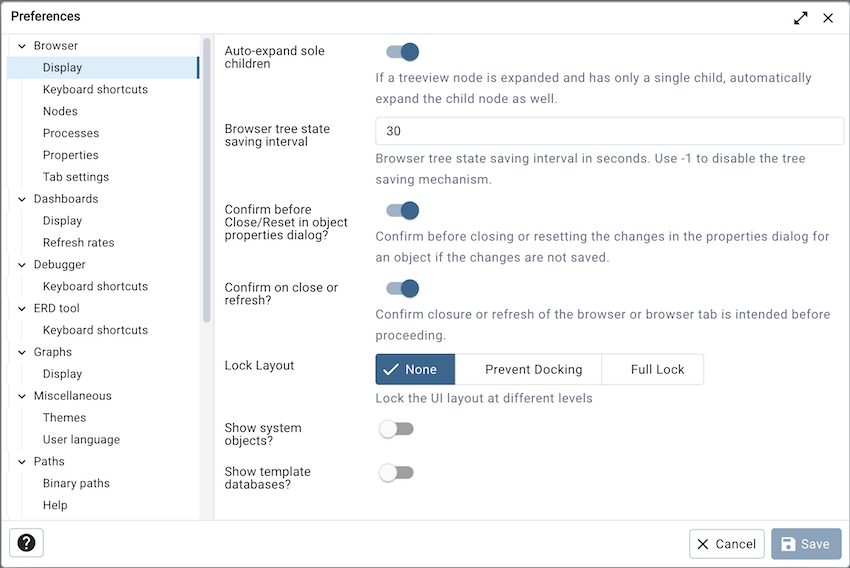
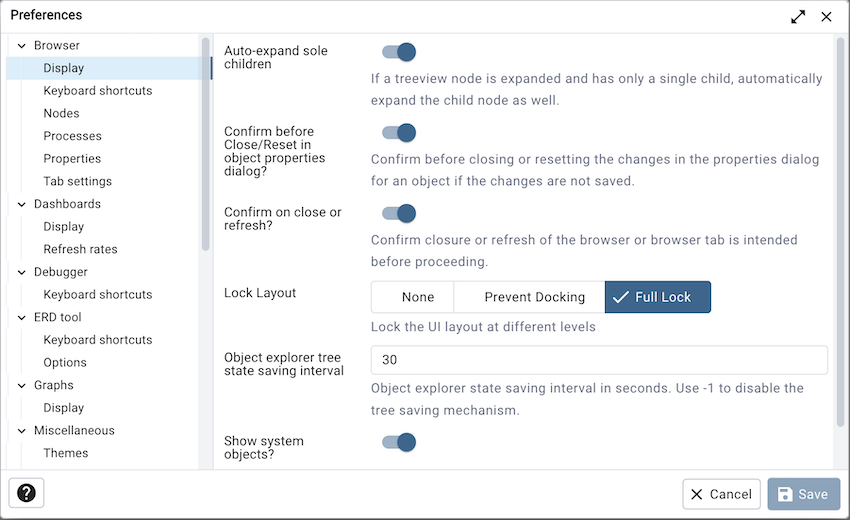
Nomenclature changes:
1. Rename "Properties..." context menu option of object to "Edit Object...".
2. Rename "Browser" tree to "Object Explorer". #4734

diff --git a/web/pgadmin/tools/backup/static/js/backup.js b/web/pgadmin/tools/backup/static/js/backup.js
@@ -65,7 +65,7 @@ define([
         icon: 'fa fa-save',
         enable: menuUtils.menuEnabledServer,
         data: {
-          data_disabled: gettext('Please select any server from the browser tree to take Backup of global objects.'),
+          data_disabled: gettext('Please select any server from the object explorer to take Backup of global objects.'),
         },
       }, {
         name: 'backup_server',
@@ -77,7 +77,7 @@ define([
         icon: 'fa fa-save',
         enable: menuUtils.menuEnabledServer,
         data: {
-          data_disabled: gettext('Please select any server from the browser tree to take Server Backup.'),
+          data_disabled: gettext('Please select any server from the object explorer to take Server Backup.'),
         },
       }, {
         name: 'backup_global_ctx',
@@ -90,7 +90,7 @@ define([
         icon: 'fa fa-save',
         enable: menuUtils.menuEnabledServer,
         data: {
-          data_disabled: gettext('Please select any database or schema or table from the browser tree to take Backup.'),
+          data_disabled: gettext('Please select any database or schema or table from the object explorer to take Backup.'),
         },
       }, {
         name: 'backup_server_ctx',
@@ -103,7 +103,7 @@ define([
         icon: 'fa fa-save',
         enable: menuUtils.menuEnabledServer,
         data: {
-          data_disabled: gettext('Please select any server from the browser tree to take Server Backup.'),
+          data_disabled: gettext('Please select any server from the object explorer to take Server Backup.'),
         },
       }, {
         name: 'backup_object',
@@ -117,7 +117,7 @@ define([
           null, pgBrowser.tree, menuUtils.backupSupportedNodes
         ),
         data: {
-          data_disabled: gettext('Please select any database or schema or table from the browser tree to take Backup.'),
+          data_disabled: gettext('Please select any database or schema or table from the object explorer to take Backup.'),
         },
       }];
 

diff --git a/web/pgadmin/preferences/static/js/components/PreferencesComponent.jsx b/web/pgadmin/preferences/static/js/components/PreferencesComponent.jsx
@@ -338,7 +338,7 @@ export default function PreferencesComponent({ ...props }) {
   function addNote(node, subNode, nodeData, preferencesData, note = '') {
     // Check and add the note for the element.
     if (subNode.label == gettext('Nodes') && node.label == gettext('Browser')) {
-      note = [gettext('This settings is to Show/Hide nodes in the browser tree.')].join('');
+      note = [gettext('This settings is to Show/Hide nodes in the object explorer.')].join('');
     } if(nodeData.name == 'keyboard_shortcuts') {
       note = gettext('The Accesskey here is %s.', getBrowserAccesskey().join(' + '));
     } else {
@@ -561,8 +561,8 @@ export default function PreferencesComponent({ ...props }) {
 
         if (pref.name == 'hide_shared_server') {
           Notify.confirm(
-            gettext('Browser tree refresh required'),
-            gettext('A browser tree refresh is required. Do you wish to refresh the tree?'),
+            gettext('Object explorer tree refresh required'),
+            gettext('The object explorer tree refresh is required. Do you wish to refresh the tree?'),
             function () {
               pgAdmin.Browser.tree.destroy({
                 success: function () {

diff --git a/web/pgadmin/browser/server_groups/servers/static/js/server.js b/web/pgadmin/browser/server_groups/servers/static/js/server.js
@@ -79,14 +79,14 @@ define('pgadmin.node.server', [
           applies: ['tools', 'context'], callback: 'reload_configuration',
           category: 'reload', priority: 10, label: gettext('Reload Configuration'),
           enable : 'enable_reload_config',data: {
-            data_disabled: gettext('Please select a server from the browser tree to reload the configuration files.'),
+            data_disabled: gettext('Please select a server from the object explorer to reload the configuration files.'),
           },
         },{
           name: 'restore_point', node: 'server', module: this,
           applies: ['tools', 'context'], callback: 'restore_point',
           category: 'restore', priority: 7, label: gettext('Add Named Restore Point...'),
           enable : 'is_applicable',data: {
-            data_disabled: gettext('Please select any server from the browser tree to Add Named Restore Point.'),
+            data_disabled: gettext('Please select any server from the object explorer to Add Named Restore Point.'),
           },
         },{
           name: 'change_password', node: 'server', module: this,

diff --git a/web/pgadmin/tools/import_export_servers/static/js/ImportExportServers.jsx b/web/pgadmin/tools/import_export_servers/static/js/ImportExportServers.jsx
@@ -152,9 +152,9 @@ export default function ImportExportServers({onClose}) {
       } else if (selectionFormData.imp_exp == 'i') {
         setSummaryText(gettext('The following servers will be imported. Click the Finish button to complete the import process.'));
         if (selectionFormData.replace_servers) {
-          setNoteText(gettext('All existing server groups and servers will be removed before the servers above are imported. On a successful import process, the browser tree will be refreshed.'));
+          setNoteText(gettext('All existing server groups and servers will be removed before the servers above are imported. On a successful import process, the object explorer will be refreshed.'));
         } else {
-          setNoteText(gettext('On a successful import process, the browser tree will be refreshed.'));
+          setNoteText(gettext('On a successful import process, the object explorer will be refreshed.'));
         }
       }
     }

diff --git a/web/pgadmin/browser/server_groups/servers/databases/static/js/database.ui.js b/web/pgadmin/browser/server_groups/servers/databases/static/js/database.ui.js
@@ -143,7 +143,7 @@ export default class DatabaseSchema extends BaseUISchema {
         id: 'is_template', label: gettext('Template?'),
         type: 'switch', group: gettext('Definition'),
         mode: ['properties', 'edit', 'create'], readonly: function(state) {return (state.is_sys_obj); },
-        helpMessage: gettext('Note: When the preferences setting \'show template databases\' is set to false, then template databases won\'t be displayed in the browser tree.'),
+        helpMessage: gettext('Note: When the preferences setting \'show template databases\' is set to false, then template databases won\'t be displayed in the object explorer.'),
         helpMessageMode: ['edit', 'create'],
       },{
         id: 'datallowconn', label: gettext('Allow connections?'),

diff --git a/web/pgadmin/tools/user_management/static/js/UserManagementDialog.jsx b/web/pgadmin/tools/user_management/static/js/UserManagementDialog.jsx
@@ -324,8 +324,8 @@ function UserManagementDialog({onClose}) {
         if (changeData['refreshBrowserTree']) {
           // Confirmation dialog to refresh the browser tree.
           Notify.confirm(
-            gettext('Browser tree refresh required'),
-            gettext('The ownership of the shared server was changed or the shared server was deleted, so a browser tree refresh is required. Do you wish to refresh the tree?'),
+            gettext('Object explorer tree refresh required'),
+            gettext('The ownership of the shared server was changed or the shared server was deleted, so the object explorer tree refresh is required. Do you wish to refresh the tree?'),
             function () {
               pgAdmin.Browser.tree.destroy();
             },

diff --git a/web/pgadmin/tools/maintenance/static/js/maintenance.js b/web/pgadmin/tools/maintenance/static/js/maintenance.js
@@ -50,7 +50,7 @@ define([
           null, pgBrowser.tree, menuUtils.maintenanceSupportedNodes
         ),
         data: {
-          data_disabled: gettext('Please select any database from the browser tree to do Maintenance.'),
+          data_disabled: gettext('Please select any database from the object explorer to do Maintenance.'),
         },
       }];
 
@@ -68,7 +68,7 @@ define([
             null, pgBrowser.tree, menuUtils.maintenanceSupportedNodes
           ),
           data: {
-            data_disabled: gettext('Please select any database from the browser tree to do Maintenance.'),
+            data_disabled: gettext('Please select any database from the object explorer to do Maintenance.'),
           },
         });
       }

diff --git a/web/pgadmin/static/js/SchemaView/index.jsx b/web/pgadmin/static/js/SchemaView/index.jsx
@@ -997,7 +997,7 @@ function SchemaPropertiesView({
           data-test="help" onClick={()=>props.onHelp(true, false)} icon={<InfoIcon />} disabled={props.disableSqlHelp}
           title="SQL help for this object type." className={classes.buttonMargin} />
         <PgIconButton data-test="edit"
-          onClick={props.onEdit} icon={<EditIcon />} title="Edit the object" />
+          onClick={props.onEdit} icon={<EditIcon />} title={gettext('Edit object...')} />
       </Box>
       <Box className={clsx(classes.form, classes.formProperties)}>
         <Box>

diff --git a/web/pgadmin/tools/grant_wizard/static/js/grant_wizard.js b/web/pgadmin/tools/grant_wizard/static/js/grant_wizard.js
@@ -48,7 +48,7 @@ define([
           null, pgBrowser.tree, menuUtils.supportedNodes
         ),
         data: {
-          data_disabled: gettext('Please select any database, schema or schema objects from the browser tree to access Grant Wizard Tool.'),
+          data_disabled: gettext('Please select any database, schema or schema objects from the object explorer to access Grant Wizard Tool.'),
         },
       }];
 

diff --git a/web/pgadmin/tools/search_objects/static/js/index.js b/web/pgadmin/tools/search_objects/static/js/index.js
@@ -48,7 +48,7 @@ export default class SearchObjectModule {
       label: gettext('Search Objects...'),
       below: true,
       data: {
-        data_disabled: gettext('Please select a database from the browser tree to search the database objects.'),
+        data_disabled: gettext('Please select a database from the object explorer to search the database objects.'),
       },
     }];
 

diff --git a/web/pgadmin/tools/restore/static/js/restore.js b/web/pgadmin/tools/restore/static/js/restore.js
@@ -48,7 +48,7 @@ define('tools.restore', [
           null, pgBrowser.tree, menuUtils.restoreSupportedNodes
         ),
         data: {
-          data_disabled: gettext('Please select any schema or table from the browser tree to Restore data.'),
+          data_disabled: gettext('Please select any schema or table from the object explorer to Restore data.'),
         },
       }];
 

diff --git a/web/pgadmin/tools/sqleditor/static/js/SQLEditorModule.js b/web/pgadmin/tools/sqleditor/static/js/SQLEditorModule.js
@@ -125,7 +125,7 @@ export default class SQLEditor {
       label: gettext('Query Tool'),
       data:{
         applies: 'tools',
-        data_disabled: gettext('Please select a database from the browser tree to access Query Tool.'),
+        data_disabled: gettext('Please select a database from the object explorer to access Query Tool.'),
       },
     }];
 
